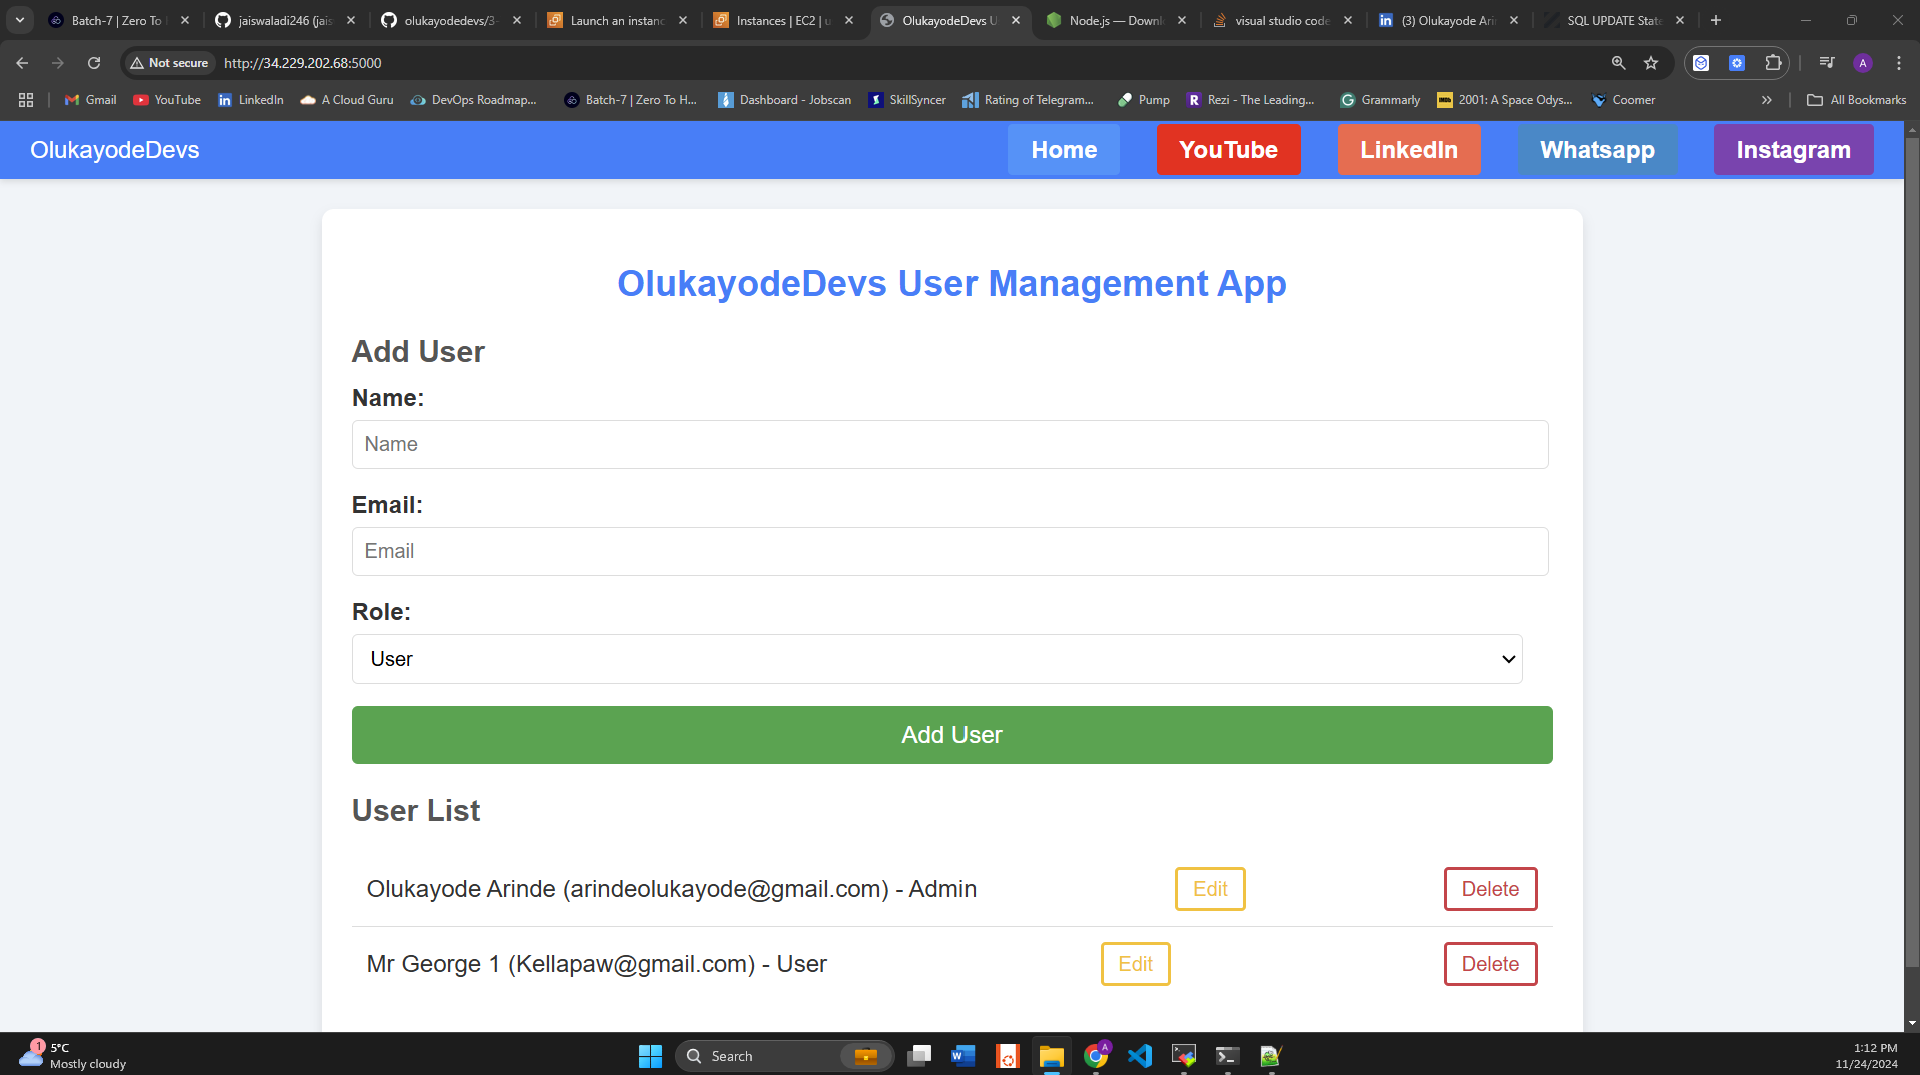
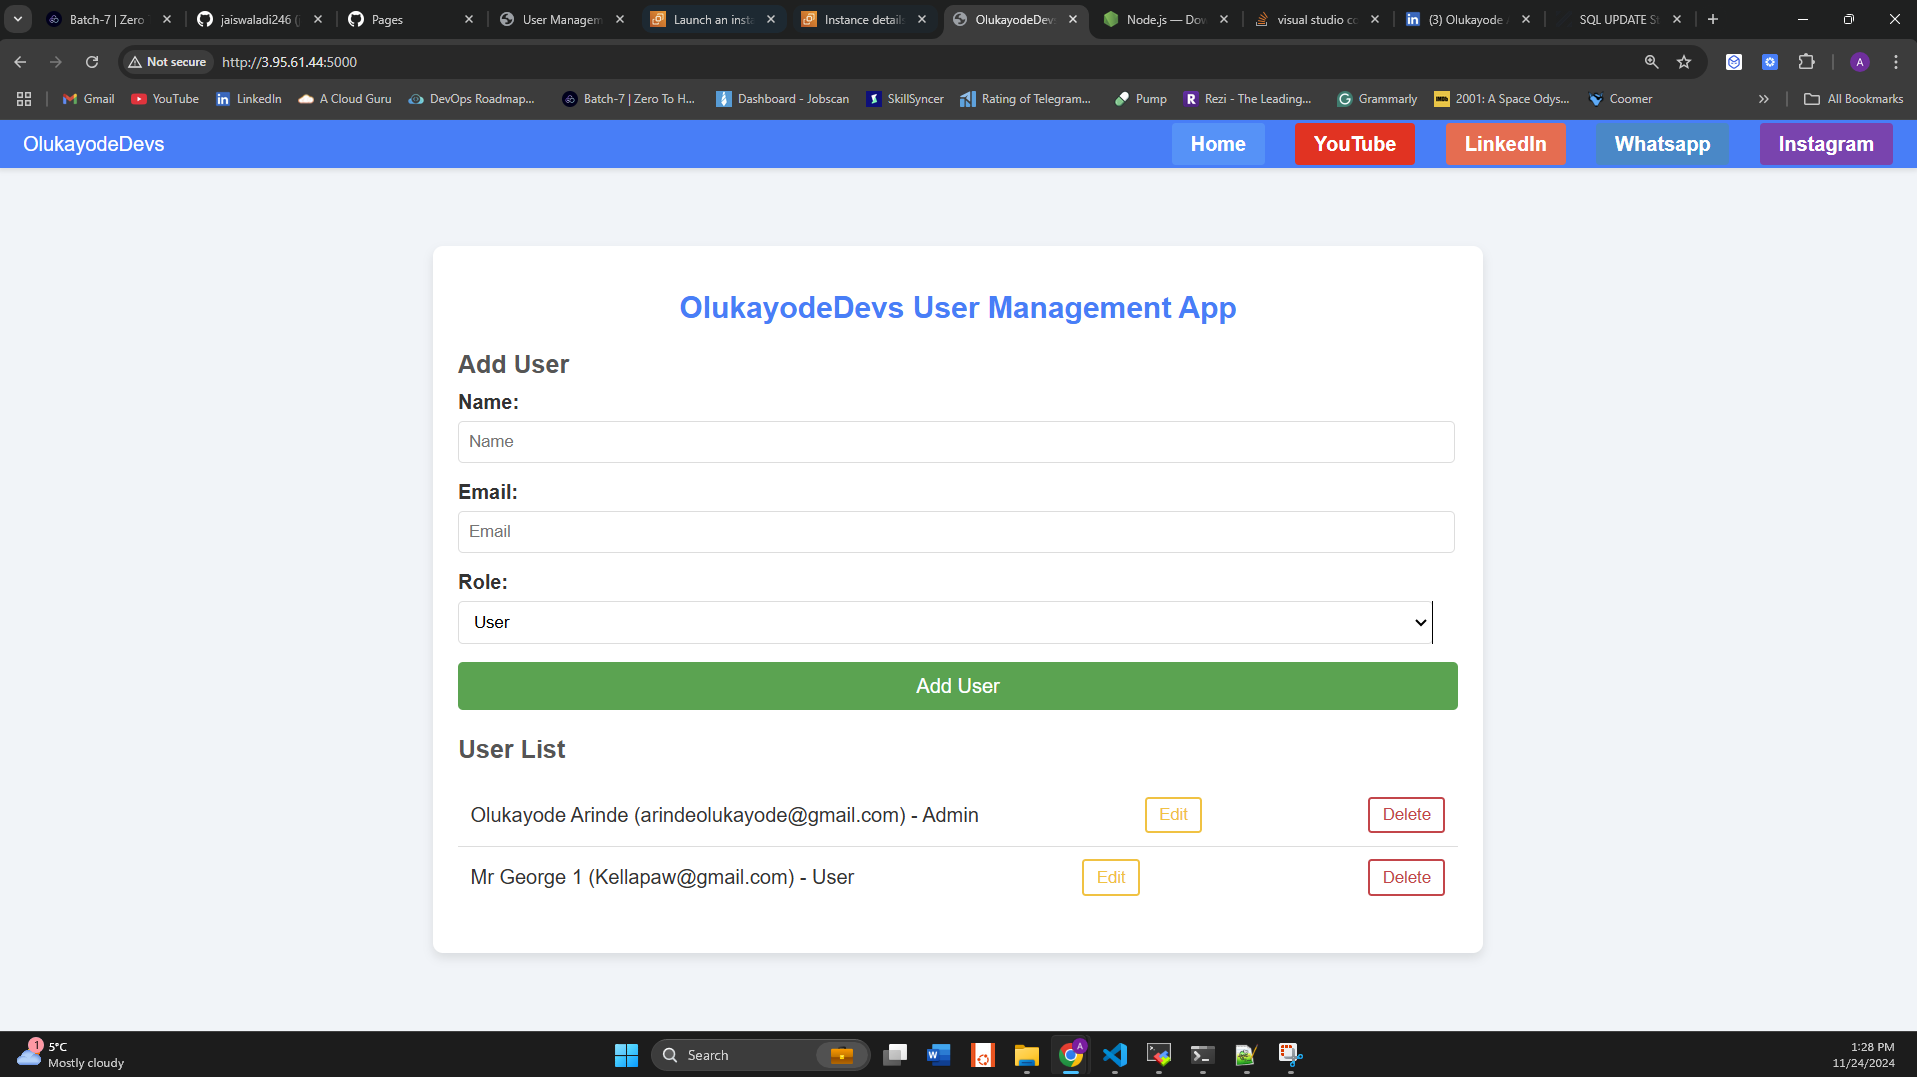
screeenshot and readme

diff --git a/README.md b/README.md
@@ -164,6 +164,14 @@ After following the setup instructions, you can access the application by naviga
 - **Edit User:** Click the "Edit" button next to a user entry to update their details.
 - **Delete User:** Click the "Delete" button next to a user entry to remove them from the list.
 
+### Editing From The Mysql Backend
+
+![User Management From Backend](./client/src/mysql.png)
+*This screenshot shows how a new user can be added from he backend without having to use the GUI.*\
+
+![User Management](./client/src/screenshot1.png)
+*The interface for User Management, shows the result after a user was added directly from the MYSQL backend.*
+
 ## License
 
 This project is licensed under the MIT License - see the [LICENSE](LICENSE) file for details.
